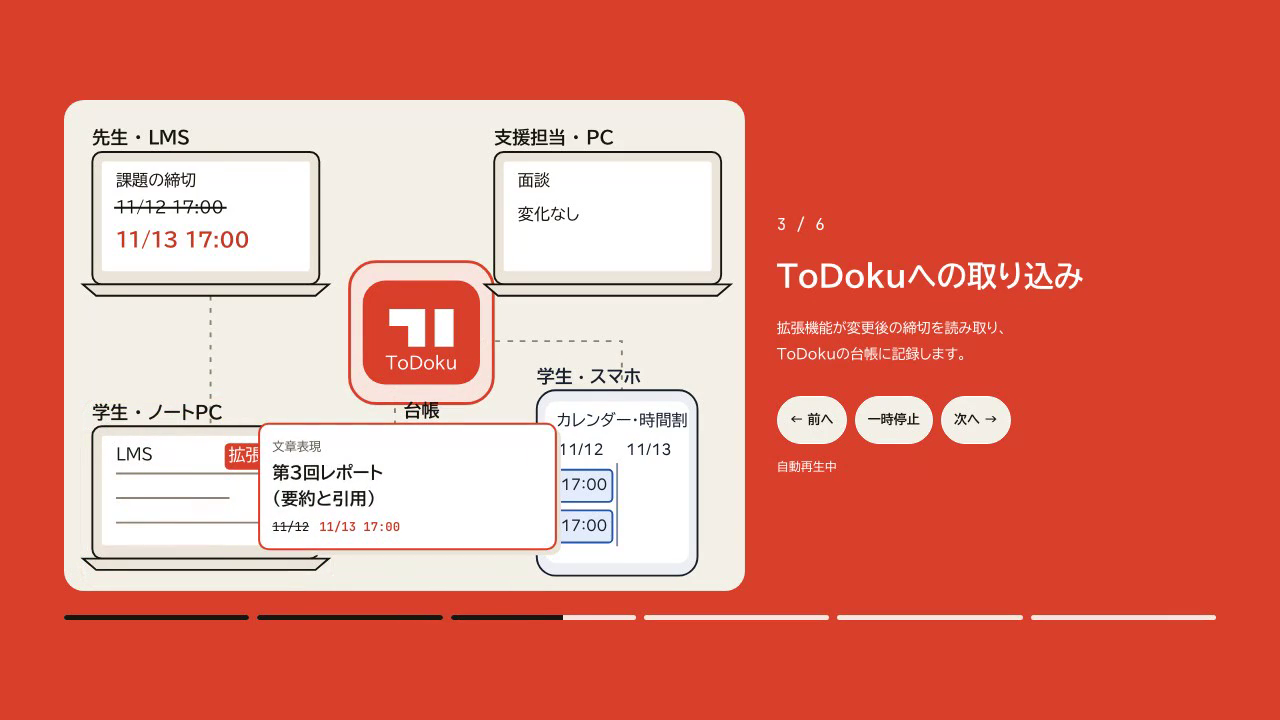
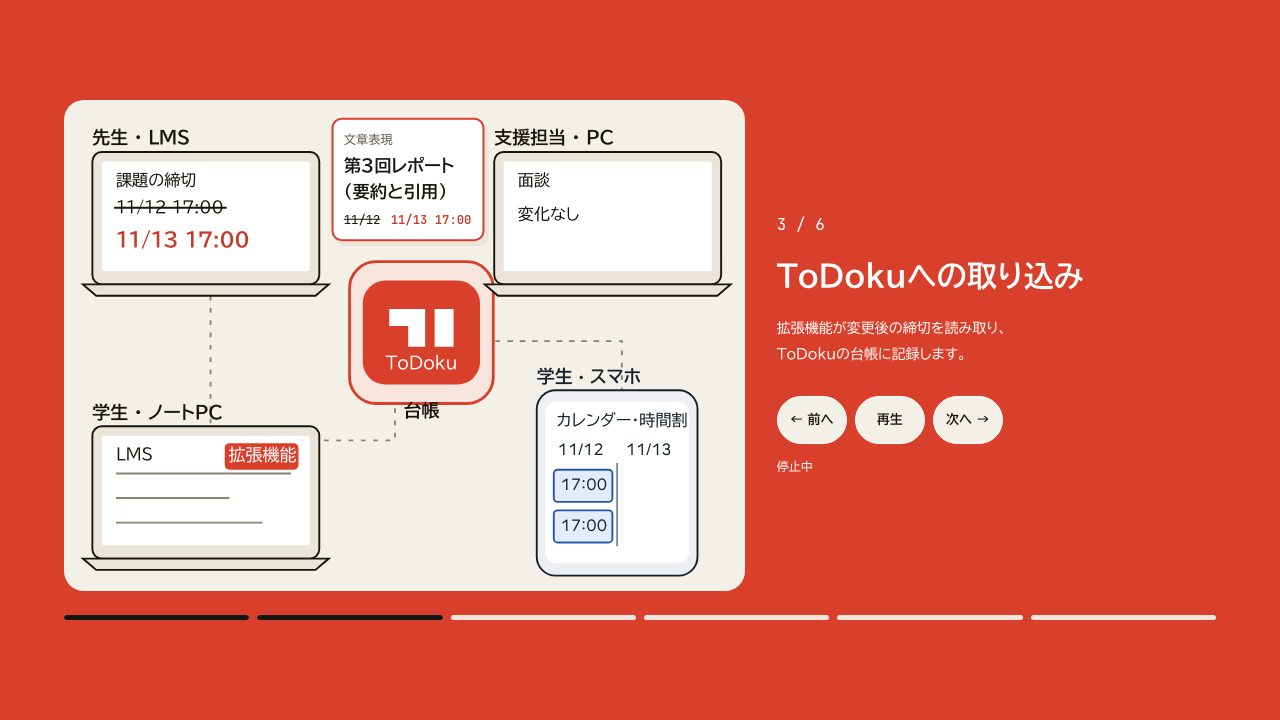
fix(web): keep the mechanism task card off devices, the hub and labels

diff --git a/packages/web/src/features/landing/mechanism.css b/packages/web/src/features/landing/mechanism.css
@@ -27,17 +27,15 @@
 .scene-mail rect { fill: var(--accent-soft); }
 .scene-envelope { fill: none; stroke: var(--accent); stroke-width: 3; }
 .scene-mail { animation: mechanism-mail 1s ease-in-out both; }
-.flow-task { position: absolute; left: 5%; top: 20%; width: 43%; box-sizing: border-box; padding: 12px; border: 2px solid var(--accent); border-radius: 10px; background: var(--white); color: var(--ink); font-size: 12px; line-height: 1.5; box-shadow: 4px 5px 0 var(--surface); transition: left 1s ease-in-out, top 1s ease-in-out, transform 1s ease-in-out; }
+.flow-task { position: absolute; left: 39.5%; top: 4%; width: 22%; box-sizing: border-box; padding: 10px; border: 2px solid var(--accent); border-radius: 10px; background: var(--white); color: var(--ink); font-size: 12px; line-height: 1.5; box-shadow: 4px 5px 0 var(--surface); transition: left 1s ease-in-out, top 1s ease-in-out, transform 1s ease-in-out; }
 .flow-task > span { display: block; margin-bottom: 4px; color: var(--muted); }
 .flow-task strong { display: block; font-size: clamp(12px, 1.25vw, 17px); }
 .flow-task strong span { display: block; }
 .flow-task-date { display: flex; gap: 10px; flex-wrap: wrap; margin-top: 6px; font-family: var(--mono); }
 .flow-task-date b { color: var(--accent-text); }
-.flow-scene-2 .flow-task { top: 61%; }
-.flow-scene-3 .flow-task { left: 29%; top: 66%; transform: scale(1.02); }
-.flow-scene-4 .flow-task { left: 29%; top: 40%; }
-.flow-scene-5 .flow-task { left: 53%; top: 43%; }
-.flow-scene-6 .flow-task { left: 5%; top: 40%; }
+/* The card waits in the empty space next to the device in focus, so it never covers a device, the hub or a label. */
+.flow-scene-2 .flow-task, .flow-scene-4 .flow-task, .flow-scene-6 .flow-task { left: 41%; top: 68%; }
+.flow-scene-3 .flow-task { transform: scale(1.02); }
 .flow-copy { min-width: 0; color: var(--white); }
 .flow-number { font: 500 16px/1.5 var(--mono); }
 .mechanism .flow-status h3 { margin: 16px 0; font-size: clamp(21px, 2.2vw, 30px); line-height: 1.5; }
@@ -70,7 +68,11 @@
   .flow-task { padding: 8px; font-size: 10px; }
   .flow-task strong { font-size: 12px; }
   .flow-task-date { gap: 6px; font-size: 10px; }
-  .flow-scene-3 .flow-task { top: 60%; }
+  .flow-task { left: 38.5%; width: 25%; padding: 4px 5px; }
+  .flow-task > span, .flow-task strong span { display: none; }
+  .flow-task strong { font-size: 10px; }
+  .flow-task-date { gap: 4px; margin-top: 2px; font-size: 9px; }
+  .flow-scene-2 .flow-task, .flow-scene-4 .flow-task, .flow-scene-6 .flow-task { left: 40%; }
   .flow-copy { padding-inline: 2px; }
   .mechanism .flow-status h3 { margin: 8px 0; font-size: 22px; }
   .mechanism .flow-description { font-size: 13px; line-height: 1.8; }
@@ -87,10 +89,10 @@
 }
 /* Keep the recording composition at 1280×720; resize the complete canvas on small screens. */
 .mechanism-slides .flow-slide { grid-template-columns: minmax(0, 1.55fr) minmax(300px, 1fr); gap: 32px; }
-.mechanism-slides .flow-task { padding: 12px; font-size: 12px; }
+.mechanism-slides .flow-task { left: 39.5%; width: 22%; padding: 10px; font-size: 12px; }
+.mechanism-slides .flow-scene-2 .flow-task, .mechanism-slides .flow-scene-4 .flow-task, .mechanism-slides .flow-scene-6 .flow-task { left: 41%; }
 .mechanism-slides .flow-task strong { font-size: 17px; }
 .mechanism-slides .flow-task-date { gap: 10px; font-size: 12px; }
-.mechanism-slides .flow-scene-3 .flow-task { top: 66%; }
 .mechanism-slides .flow-status h3 { margin: 16px 0; font-size: 30px; }
 .mechanism-slides .flow-description { font-size: 14px; line-height: 1.9; }
 .mechanism-slides .flow-controls { margin-top: 28px; }
